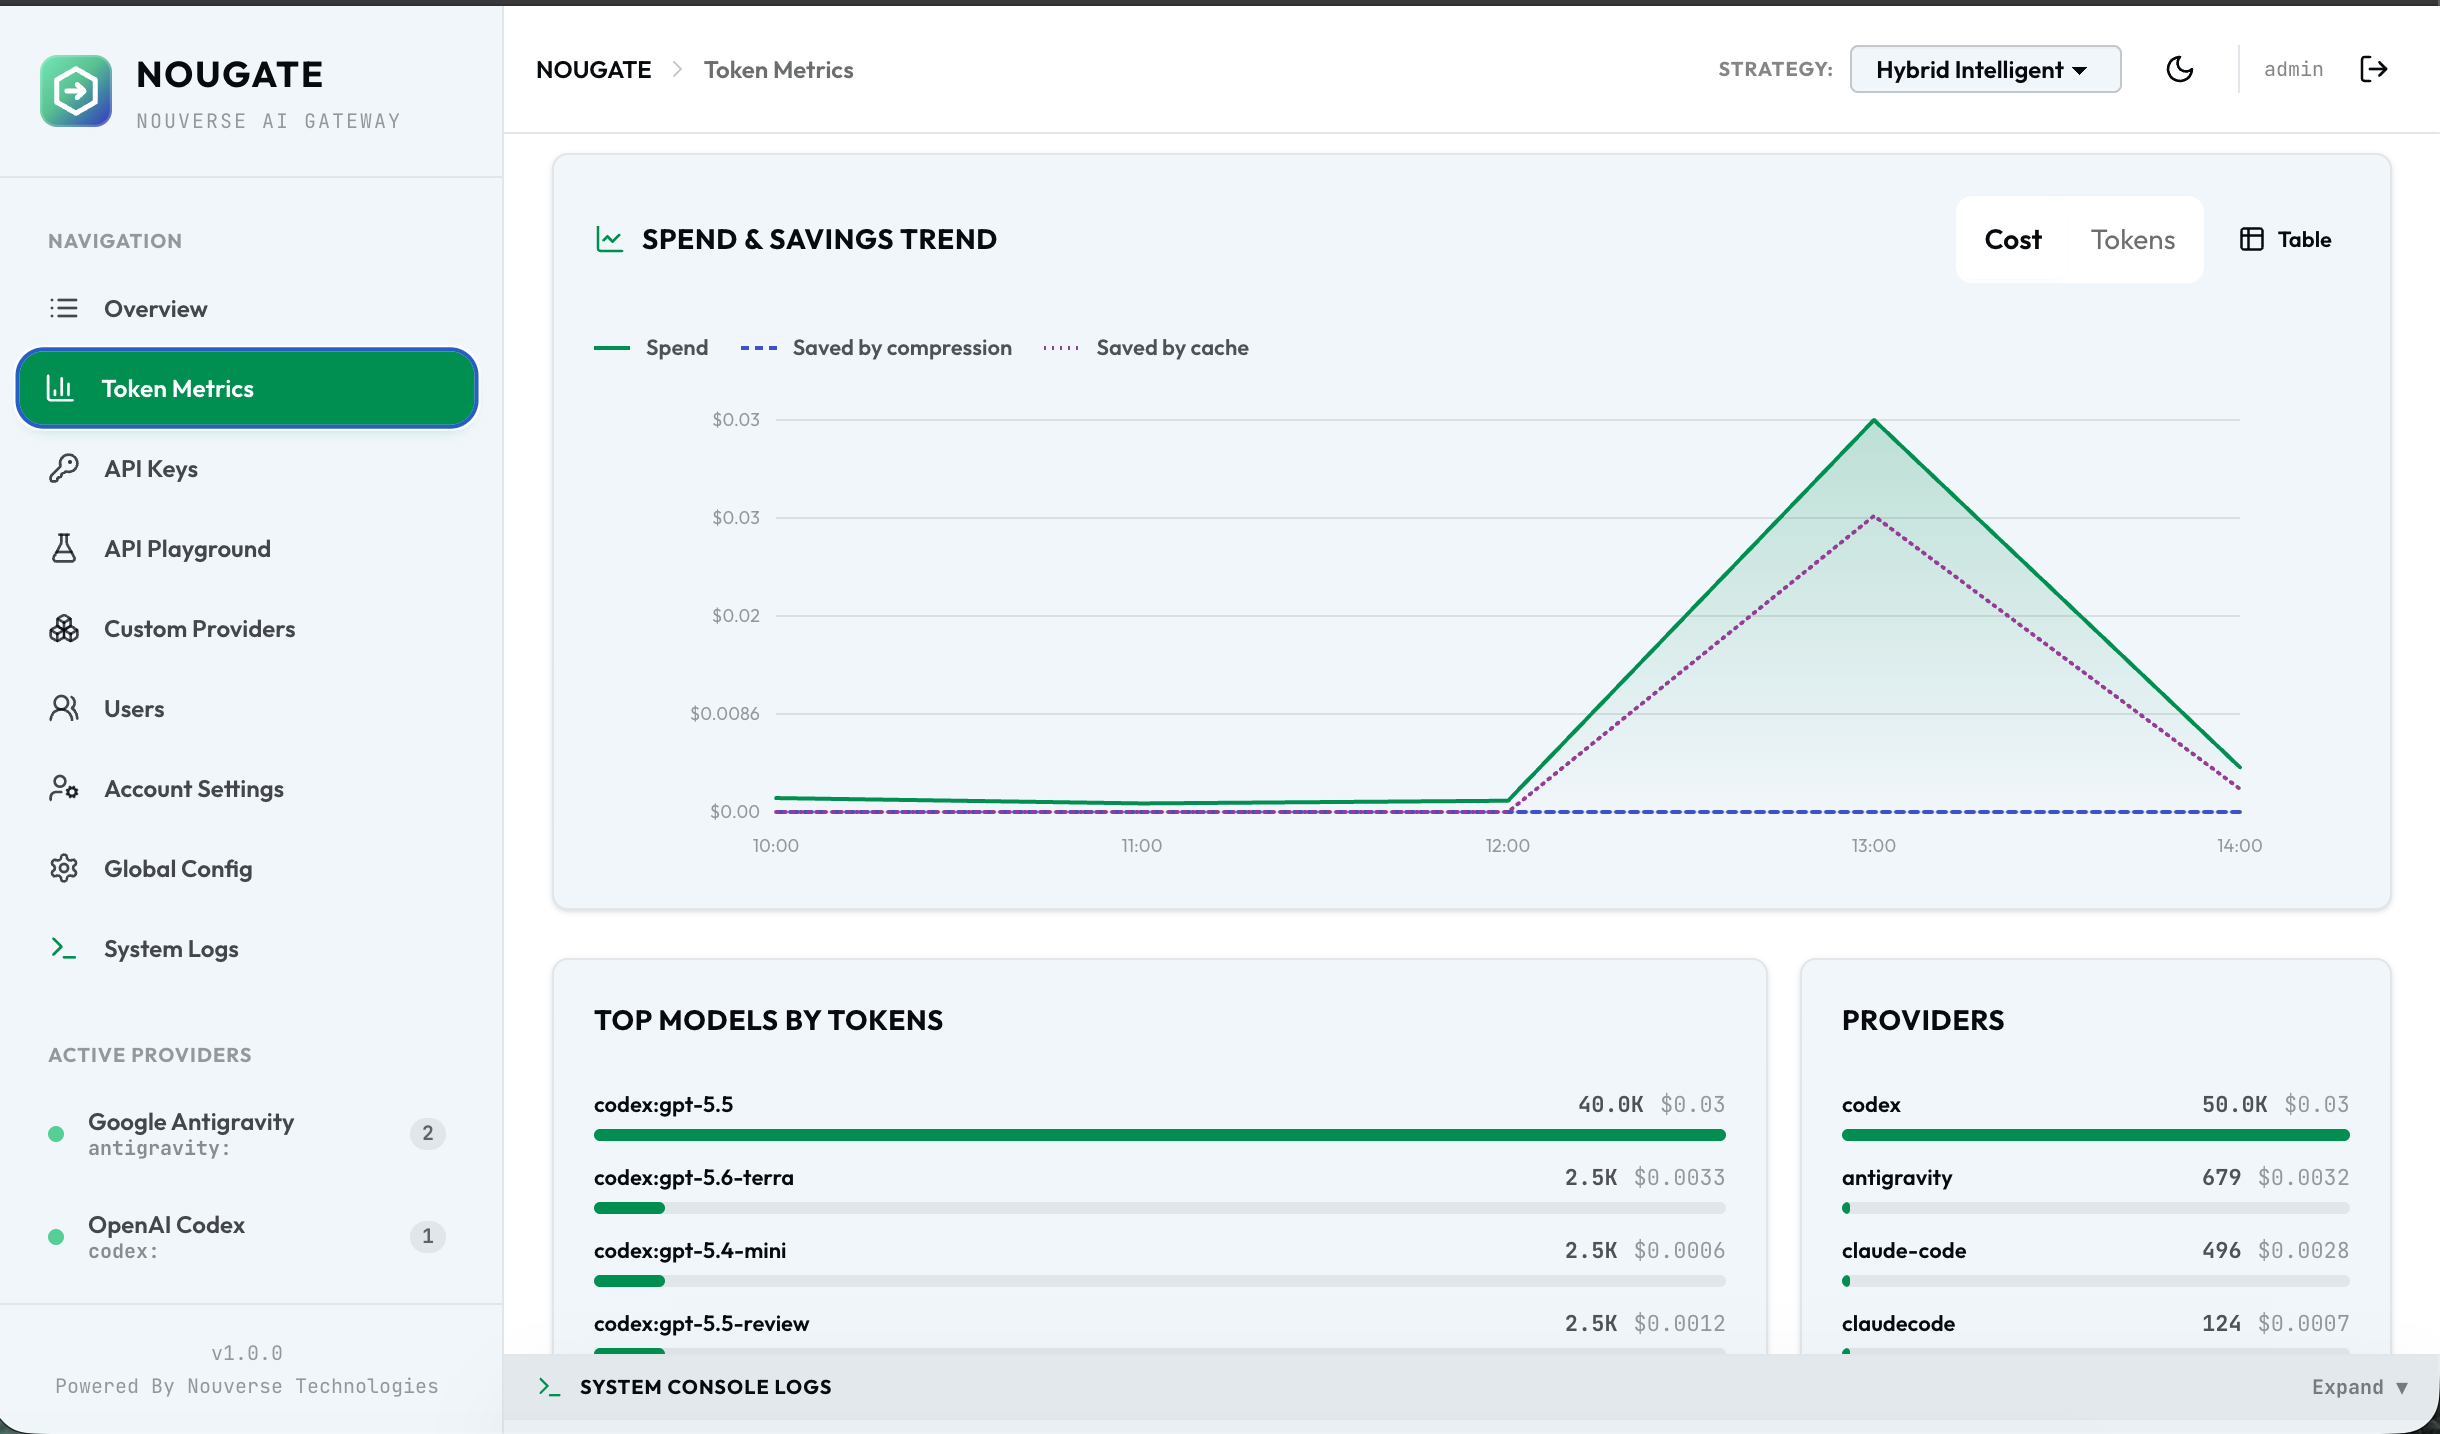
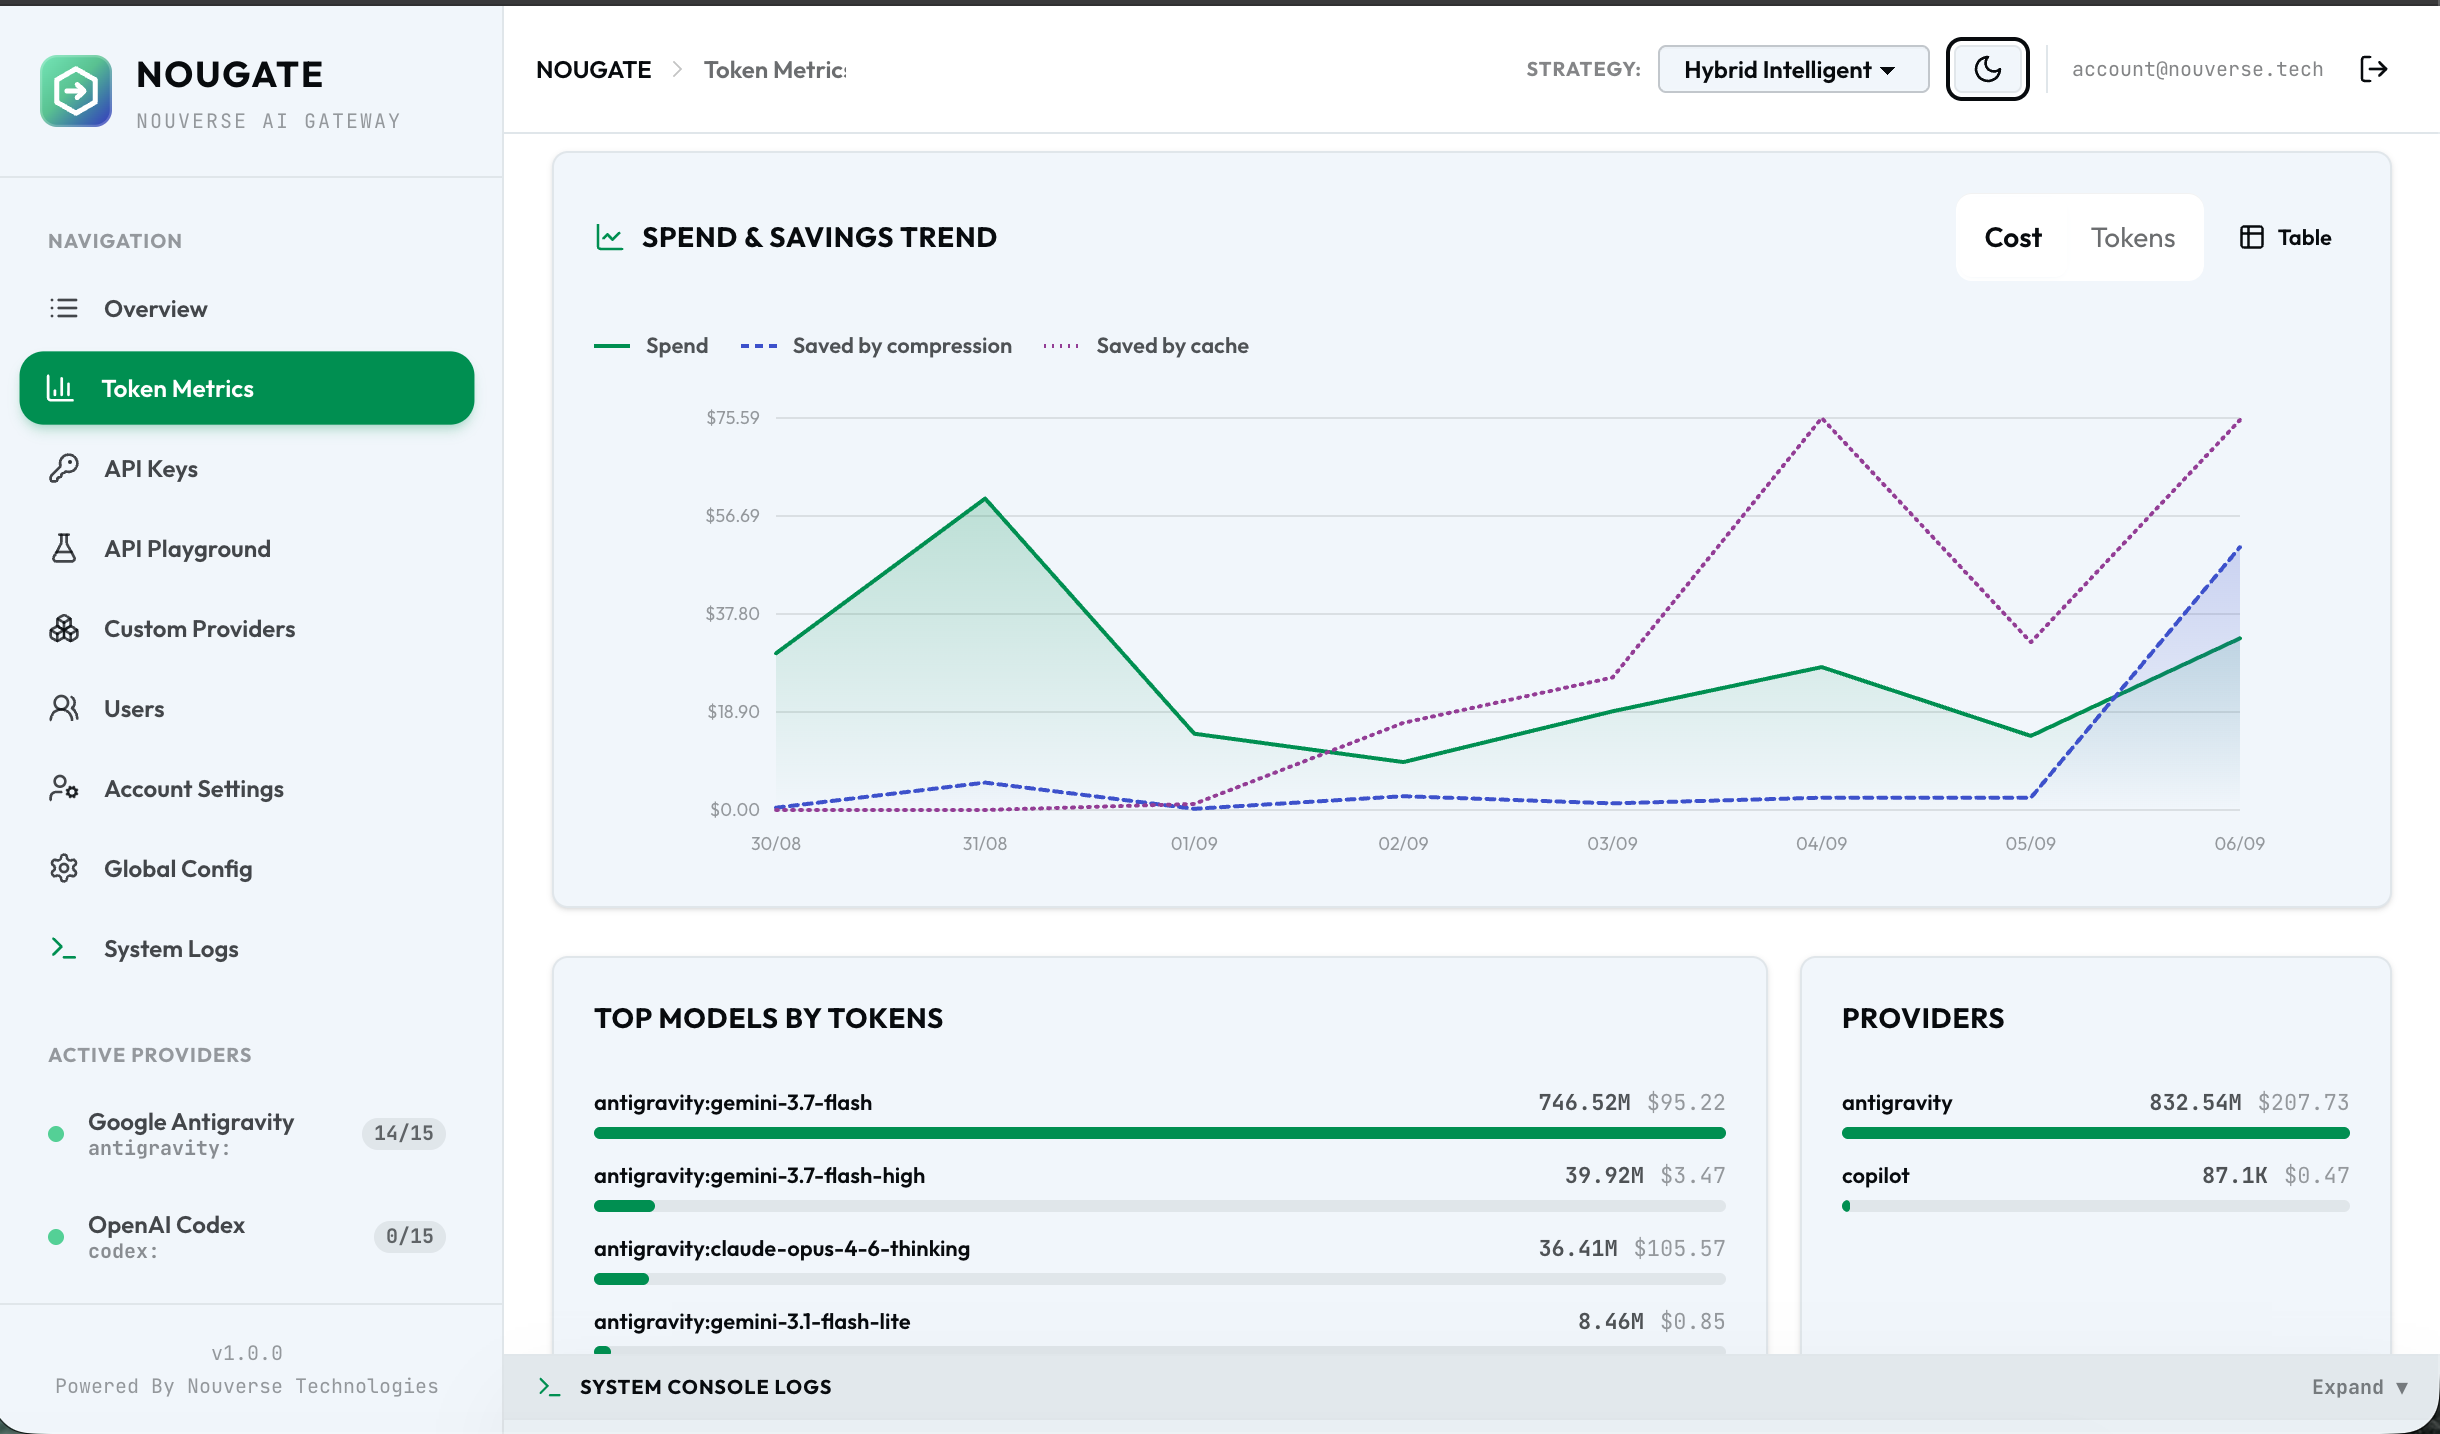
fix: correct anthropic prompt token calculation
Add a helper function to correctly aggregate prompt tokens for Anthropic
upstreams, preventing under-reporting of cached prompt segments in
metrics and response headers.

diff --git a/apps/backend/tests/unit/usage-cache-prompt-total.test.ts b/apps/backend/tests/unit/usage-cache-prompt-total.test.ts
@@ -1,0 +1,62 @@
+/**
+ * How large the prompt was, when two upstreams disagree about what the number means.
+ *
+ * OpenAI and Gemini report a total and call the cached part a subset of it. Anthropic reports the
+ * *remainder* and puts the cached tokens in their own fields. Copying `input_tokens` straight into
+ * `prompt_tokens` therefore produced an OpenAI usage block where `cached_tokens` was larger than the
+ * `prompt_tokens` it belongs to — 2,824 inside 6 — and logged a 2,830-token prompt as 6.
+ *
+ * Caught on a live request, not by reading: the cache only engages past Anthropic's minimum
+ * cacheable length, so every short test request had reported zero and looked correct.
+ */
+
+import { describe, expect, test } from 'bun:test';
+import { cacheReadTokens, promptTokens } from '@/core/usage-cache';
+
+describe('promptTokens', () => {
+  test('adds the cached tokens back for an Anthropic upstream', () => {
+    // The shape that produced the bug, copied from a real response.
+    const usage = {
+      input_tokens: 6,
+      cache_read_input_tokens: 2824,
+      cache_creation_input_tokens: 0,
+      output_tokens: 16,
+    };
+
+    expect(promptTokens(usage)).toBe(2830);
+    // The invariant that was violated: the cached part fits inside the total.
+    expect(cacheReadTokens(usage)!).toBeLessThanOrEqual(promptTokens(usage)!);
+  });
+
+  test('counts cache writes into the prompt, though they are not a saving', () => {
+    // `cacheReadTokens` excludes writes on purpose — Anthropic charges them at 1.25x, so folding
+    // them into "what the cache saved" would discount the most expensive tokens in the request.
+    // The prompt still contained them.
+    const usage = { input_tokens: 6, cache_creation_input_tokens: 2824, cache_read_input_tokens: 0 };
+
+    expect(promptTokens(usage)).toBe(2830);
+    expect(cacheReadTokens(usage)).toBe(0);
+  });
+
+  test('leaves an OpenAI total alone, because it already includes the cached part', () => {
+    const usage = { prompt_tokens: 2486, prompt_tokens_details: { cached_tokens: 1792 } };
+    expect(promptTokens(usage)).toBe(2486);
+  });
+
+  test('leaves the Responses API alone, which uses input_tokens with OpenAI semantics', () => {
+    // Codex reports `input_tokens` too. Detection keys on the two Anthropic-only field names rather
+    // than on `input_tokens`, or this would inflate every Codex prompt by its own cached tokens.
+    const usage = { input_tokens: 2486, input_tokens_details: { cached_tokens: 1792 } };
+    expect(promptTokens(usage)).toBe(2486);
+  });
+
+  test('leaves a Gemini total alone', () => {
+    expect(promptTokens({ promptTokenCount: 20000, cachedContentTokenCount: 18000 })).toBe(20000);
+  });
+
+  test('says nothing when the upstream did', () => {
+    expect(promptTokens(undefined)).toBeUndefined();
+    expect(promptTokens({})).toBeUndefined();
+    expect(promptTokens({ output_tokens: 5 })).toBeUndefined();
+  });
+});

diff --git a/apps/backend/src/core/usage-cache.ts b/apps/backend/src/core/usage-cache.ts
@@ -70,3 +70,42 @@ export function openAiCacheUsage(cached: number | undefined) {
 export function anthropicCacheUsage(cached: number | undefined) {
   return typeof cached === 'number' ? { cache_read_input_tokens: cached } : {};
 }
+
+/**
+ * The whole prompt, however the upstream chose to split it.
+ *
+ * OpenAI and Gemini report a **total** and name the cached part as a subset of it. Anthropic does the
+ * opposite: `input_tokens` is what was *not* served from cache, and the cached tokens sit beside it
+ * in their own fields. Copying `input_tokens` into `prompt_tokens` therefore under-reports the prompt
+ * by exactly the amount the cache saved — and produces an OpenAI usage block that is impossible under
+ * OpenAI's own rules, where `cached_tokens` came out larger than the `prompt_tokens` it is supposed
+ * to be part of. A client computing "uncached = prompt − cached" got a negative number, and the
+ * metrics recorded a 2,830-token prompt as 6.
+ *
+ * `cache_creation_input_tokens` is counted here even though `cacheReadTokens` deliberately excludes
+ * it: the two answer different questions. That one asks what the cache *saved*, and a write saves
+ * nothing — it costs 1.25x. This asks how large the prompt *was*, and tokens written to the cache
+ * were read from the prompt like any other.
+ *
+ * Detection is by the two Anthropic-only field names rather than by the presence of `input_tokens`,
+ * which OpenAI's Responses API also uses — with OpenAI's own subset semantics.
+ */
+export function promptTokens(usage: any): number | undefined {
+  if (!usage || typeof usage !== 'object') return undefined;
+
+  const anthropicInput = usage.input_tokens;
+  const cacheRead = usage.cache_read_input_tokens;
+  const cacheWrite = usage.cache_creation_input_tokens;
+
+  if (
+    typeof anthropicInput === 'number' &&
+    (typeof cacheRead === 'number' || typeof cacheWrite === 'number')
+  ) {
+    return anthropicInput + (cacheRead ?? 0) + (cacheWrite ?? 0);
+  }
+
+  for (const value of [usage.prompt_tokens, usage.promptTokenCount, anthropicInput]) {
+    if (typeof value === 'number' && Number.isFinite(value)) return value;
+  }
+  return undefined;
+}

diff --git a/apps/backend/src/core/mappers/openai-to-anthropic.ts b/apps/backend/src/core/mappers/openai-to-anthropic.ts
@@ -5,7 +5,7 @@
  * but the client called the OpenAI-compatible route.
  */
 import { getCavemanPrompt } from '@/core/caveman';
-import { cacheReadTokens, openAiCacheUsage } from "@/core/usage-cache";
+import { cacheReadTokens, openAiCacheUsage, promptTokens } from "@/core/usage-cache";
 
 const DEFAULT_MAX_TOKENS = 8192;
 
@@ -282,7 +282,9 @@ export async function finalizeAnthropicToOpenAIResponse(
       },
     ],
     usage: {
-      prompt_tokens: data.usage?.input_tokens ?? 0,
+      // The whole prompt, cached part included — see `promptTokens`. Anthropic's
+      // `input_tokens` alone is only what the cache did not serve.
+      prompt_tokens: promptTokens(data.usage) ?? 0,
       completion_tokens: data.usage?.output_tokens ?? 0,
       total_tokens: (data.usage?.input_tokens ?? 0) + (data.usage?.output_tokens ?? 0),
       // The other half of the breakpoint above: an upstream that honoured it says so as
@@ -360,7 +362,8 @@ export function createAnthropicToOpenAIStreamTransformer(requestedModelId: strin
   const handleEvent = (event: any, controller: TransformStreamDefaultController) => {
     switch (event.type) {
       case 'message_start': {
-        inputTokens = event.message?.usage?.input_tokens ?? 0;
+        // Cached tokens are part of the prompt, and Anthropic reports them beside it, not in it.
+        inputTokens = promptTokens(event.message?.usage) ?? 0;
         outputTokens = event.message?.usage?.output_tokens ?? 0;
         // `message_start` is the only event that carries the cache counts.
         cachedTokens = cacheReadTokens(event.message?.usage) ?? cachedTokens;

diff --git a/apps/backend/src/core/metrics/tracker.ts b/apps/backend/src/core/metrics/tracker.ts
@@ -4,6 +4,7 @@ import { costOf, resolvePricing } from '@/core/metrics/pricing';
 import { calibrate, recordActualTokens } from '@/core/metrics/calibrator';
 import { estimateTokensFromChars } from '@/core/metrics/tokenizer';
 import { tokenMetricsLogger } from '@/core/metrics/logger';
+import { promptTokens } from '@/core/usage-cache';
 
 export interface CompressionStats {
   tokensBefore: number;
@@ -69,7 +70,9 @@ function absorbUsage(totals: UsageTotals, usage: any): void {
     return;
   }
 
-  const input = usage.prompt_tokens ?? usage.input_tokens;
+  // Not `input_tokens` directly: on an Anthropic upstream that field excludes whatever the
+  // cache served, so a passthrough request would log a 2,830-token prompt as 6.
+  const input = promptTokens(usage);
   const output = usage.completion_tokens ?? usage.output_tokens;
   const cached =
     usage.prompt_tokens_details?.cached_tokens ??

diff --git a/docs/ARCHITECTURE.md b/docs/ARCHITECTURE.md
@@ -363,6 +363,34 @@ key, token counts, duration, status, and the tokens compression saved.
 
 ---
 
+### Prompt caching
+
+Two halves, and only one of them is central.
+
+**Reading** the cache is provider-agnostic. `core/usage-cache.ts` knows all three vocabularies —
+Gemini's `cachedContentTokenCount`, OpenAI's `prompt_tokens_details.cached_tokens`, Anthropic's
+`cache_read_input_tokens` — so every provider, including a custom one pointed at any of them, is
+accounted for without writing code.
+
+One trap lives here: the two families disagree about what the prompt count *means*. OpenAI and
+Gemini report a total with the cached part as a subset; Anthropic reports the **remainder** and puts
+the cached tokens beside it. `promptTokens()` adds them back, and without it a 2,830-token prompt was
+logged as 6 and emitted as an OpenAI usage block whose `cached_tokens` exceeded its `prompt_tokens`.
+
+**Causing** the cache is per upstream, because the upstreams differ:
+
+| Upstream | What creates the cache |
+|---|---|
+| OpenAI, Codex, Copilot | Automatic. Nothing to send |
+| Gemini / Antigravity | Implicit, provider-side |
+| Anthropic, from an **OpenAI-shaped client** | Nougate marks the system block with `cache_control` once it passes `CACHE_BREAKPOINT_MIN_CHARS` — that dialect has no way to ask, so nobody else can |
+| Anthropic, from an **Anthropic client** | The client's own breakpoints, passed through untouched |
+
+Anthropic orders its cache prefix `tools → system → messages`, so a breakpoint on the system block
+covers the tool schemas too — usually the larger half on an agent client.
+
+---
+
 ## 9. Auth
 
 Two independent systems, because the clients are different.
